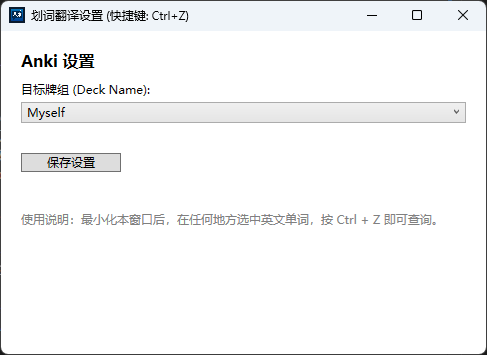
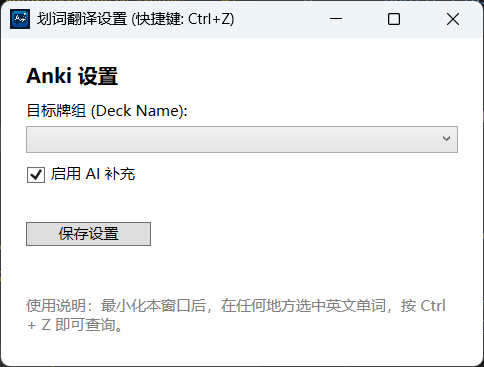
add completely AI function

diff --git a/MainWindow.xaml b/MainWindow.xaml
@@ -17,6 +17,9 @@
             <!-- 改为下拉列表，数据源为运行时获取的牌组 -->
             <ComboBox x:Name="DeckComboBox" Margin="0,5,0,10" />
 
+            <CheckBox x:Name="EnableAICheckBox" Content="启用 AI 补充" Margin="0,0,0,10"/>
+
+
             <Button Content="保存设置" Click="SaveButton_Click" Width="100" HorizontalAlignment="Left" Margin="0,20,0,0"/>
 
             <TextBlock Text="使用说明：最小化本窗口后，在任何地方选中英文单词，按 Ctrl + Z 即可查询。"

diff --git a/MainWindow.xaml.cs b/MainWindow.xaml.cs
@@ -42,6 +42,7 @@ namespace WordPopupApp
             _ankiService = new AnkiService();
             _settingsService = new SettingsService();
             _currentSettings = _settingsService.LoadSettings();
+            EnableAICheckBox.IsChecked = _currentSettings.EnableAISupplement;
             _lcClient = new LangChainClient(); // 本地 127.0.0.1:8040
         }
 
@@ -101,8 +102,12 @@ namespace WordPopupApp
                 Popup.SetPositionAndShow();
 
                 var wordCard = await wordCardTask;
-                var llm = await lcTask;
-
+                YoudaoWordCard? llm = null;
+                
+                if (_currentSettings.EnableAISupplement)
+                {
+                    llm = await _lcClient.GenerateAsync(text, cancellationToken);
+                }
                 if (llm != null) // 仅使用大语言模型的结果填充缺失内容
                 {
                     // 同样补齐缺失块
@@ -144,6 +149,8 @@ namespace WordPopupApp
                 return;
             }
             _currentSettings.AnkiDeckName = DeckComboBox.SelectedItem.ToString() ?? string.Empty;
+            
+            _currentSettings.EnableAISupplement = EnableAICheckBox.IsChecked == true;
 
             _settingsService.SaveSettings(_currentSettings);
             MessageBox.Show("设置已保存！");

diff --git a/ai/server.py b/ai/server.py
@@ -34,7 +34,7 @@ class Query(BaseModel):
 
 LLM = ChatGoogleGenerativeAI(
     model="gemini-2.0-flash",
-    google_api_key= "在这里填入你的API KEY" ,  # os.getenv("GOOGLE_API_KEY"),
+    google_api_key= "AIzaSyB2KNWGXZvJ38ObgJsPu_0NE3oG1D68lAQ" ,  # os.getenv("GOOGLE_API_KEY"),
     temperature=0.4,
 )
 

diff --git a/Models/AppSettings.cs b/Models/AppSettings.cs
@@ -4,5 +4,8 @@ namespace WordPopupApp.Models
     {
         public string AnkiDeckName { get; set; } = "Default";
 
+        // 新增：是否启用 AI 补充
+        public bool EnableAISupplement { get; set; } = true;
+        
     }
 }

diff --git a/README.md b/README.md
@@ -1,106 +1,111 @@
 
 ---
 
-# WordPopupApp - 划词翻译与Anki制卡助手
----
-`WordPopupApp` 是一款为 Windows 用户设计的 C#/.NET 桌面应用。它提供了一个简单高效的划词翻译体验，并能一键将查询的单词及其中英文释义、例句、发音等信息制成卡片，添加到 [Anki](https://apps.ankiweb.net/) 中，极大地提升了阅读和学习效率。
+# WordPopupApp - 划词翻译 Anki 助手
 
-2025-09-10 adding 现在，除了爬虫与公开词典接口外，还支持使用 Google Gemini 进行智能生成（可选，支持两种集成方式：纯 C# 或经由 LangChain）。
+这是一款 Windows 平台的划词翻译工具，旨在帮助用户快速查询单词释义，并一键将其添加到 Anki 中，方便后续复习。它结合了有道词典的网络爬虫和可选的 AI (Gemini) 补充功能，为用户提供丰富、全面的单词卡片信息。
 
-![应用截图](./Assets/截图0.png) 
-![应用截图](./Assets/截图1.png) 
+## 主要功能
 
-当点击 `+Anki` 之后，在Anki生成的卡片如下：
-![应用截图](./Assets/截图2.png) 
-![应用截图](./Assets/截图3.png) 
+*   **全局热键**：在任何地方选中单词，按下 `Ctrl + Z` 即可快速查词。
+*   **内容丰富**：自动从有道词典抓取单词的音标、释义、词组和柯林斯例句。
+*   **AI 增强**：可选的 AI (Gemini) 模式，用于补充或生成更丰富的单词信息，尤其在有道词典信息不全时。
+*   **Anki 集成**：一键将完整的单词卡片（包含释义、例句、发音）添加到指定的 Anki 牌组中。
+*   **自动模板**：首次添加时，会自动在 Anki 中创建优化好的卡片模板和笔记类型 (`WordPopUpNote`)。
+*   **简洁易用**：直观的设置界面和美观的查询结果弹窗。
 
+## 软件截图
 
-## ✨ 主要功能
+**1. 设置主界面**
+程序启动后，可在此配置 Anki 牌组并选择是否启用 AI 补充。
 
-- **全局热键**：在任何应用程序中，选中英文单词或短语，按下 `Ctrl + Z` 即可触发查询。
-- **多源查询**：
-    - **英文释义**：从 [Free Dictionary API](https://dictionaryapi.dev/) 获取详细的英文定义、词性及例句。
-    - **中文翻译**：快速获取单词或短语的中文意思。
-    - **相关词组**：通过 [WordsAPI](https://www.wordsapi.com/) 获取与查询单词相关的常用短语。
-    - **AI生成**：通过 LangChain 框架，将应用与 Gemini 模型连接起来，通过 Google Gemini 进行智能生成，获取更丰富的内容。
-- **音频播放**：点击发音按钮，即可播放单词的真人发音。
-- **一键添加至Anki**：
-    - 将单词、音标、中文释义、英文例句、相关词组和发音一键添加到 Anki。
-    - 自动在 Anki 中创建名为 `WordPopUpNote` 的精美笔记模板，无需手动配置。
-- **高度可配置**：
-    - 启动后可在设置界面选择要添加到的 Anki 牌组。
-    - 所有配置（如牌组名称、API密钥）都保存在本地 `settings.json` 文件中。
+![运行后的界面](Assets/截图0.png)
 
-## ⚙ 先决条件
+**2. 查词弹窗**
+选中单词并按下快捷键后，会弹出此窗口显示查询结果。
 
-在使用本应用前，请确保您的电脑满足以下条件：
+![查询出来的单词界面](Assets/截图1.png)
 
-1.  **操作系统**：Windows。
-2.  **.NET 运行库**：需要安装 [.NET 9 Desktop Runtime](https://dotnet.microsoft.com/en-us/download/dotnet/9.0) 或更高版本。
-3.  **Anki**：已安装 Anki 桌面客户端。
-4.  **AnkiConnect**：在 Anki 中已安装并启用了 [AnkiConnect](https://ankiweb.net/shared/info/2055492159) 插件。**这是与Anki通信的必要组件。**
-5.  **WordsAPI 密钥 (可选)**：为了使用“相关词组”功能，您需要一个 WordsAPI 的密钥。
-    -   前往 [RapidAPI](https://rapidapi.com/hub) 网站。
-    -   搜索并订阅 `WordsAPI` 服务 (通常有免费额度)。
-    -   获取您的 `X-RapidAPI-Key`。
-6. **Google Gemini 密钥 (可选)**：为了使用“AI生成”功能，您需要一个 Google Gemini 的密钥。
-    -   前往 [Google AI Studio](https://ai.google.dev/) 网站。
-    -   搜索并订阅 `Google Gemini` 服务 (通常有免费额度)。
-    -   获取您的 `API_KEY`。
-7. **python 环境**: 确保本地已安装 Python 3.10+
+**3. Anki 卡片效果**
+添加到 Anki 后的卡片样式，排版清晰，支持发音。
 
-## 🚀 安装与设置
+*   **卡片正面：**
+    ![Anki 卡片正面](Assets/截图2.png)
 
-1.  **下载应用**：从本项目的 [Releases](https://github.com/qq13456116532/WordPopupApp/releases) 页面下载最新的压缩包，并解压到任意位置。
-2.  **配置API密钥 (可选)**：
-    -   在解压后的文件夹中，找到 `settings.json` 文件。
-    -   用记事本或任何文本编辑器打开它。
-    -   将您从 RapidAPI 获取的密钥粘贴到 `WordsApiKey` 字段的值中，并保存文件。
-    ```json
-    {
-      "AnkiDeckName": "Myself",
-      "WordsApiKey": "在此处粘贴你从RapidAPI获取的密钥"
-    }
-    ```
-    *如果留空，"相关词组"功能将不可用，但不影响其他核心功能。*
-3.  **运行Anki**：确保 Anki 桌面程序正在运行，并且 AnkiConnect 插件已启用。
+*   **卡片背面：**
+    ![Anki 卡片背面](Assets/截图3.png)
 
-## 📖 使用方法
+## 环境要求
 
-1.  **启动应用**：双击运行 `WordPopupApp.exe`, 并在 /ai/文件夹下使用命令`python -m uvicorn server:app --host 127.0.0.1 --port 8040 --reload`启动langchain服务。
-2.  **配置设置**：
-    -   应用启动后会显示一个设置窗口。
-    -   程序会自动获取您 Anki 中的所有牌组，请在下拉列表中选择一个您希望用于存词的默认牌组。
-    -   点击 “保存设置” 按钮。
-3.  **最小化窗口**：将设置窗口最小化，应用会在后台持续运行。
-4.  **开始使用**：
-    -   在浏览器、PDF阅读器、文档等任何地方，用鼠标选中一个您不认识的英文单词。
-    -   按下快捷键 `Ctrl + Z`。
-    -   一个查询结果弹窗会立刻出现在您的鼠标旁边。
-    -   查看释义，点击 `+ Anki` 按钮即可将该词条添加到您之前设置好的牌组中。
-    -   弹窗会在您点击其他地方后自动消失。
+1.  **操作系统**: Windows 10 或更高版本。
+2.  **运行环境**: .NET Framework 或 .NET Core/5/6+ (根据项目编译目标决定)。
+3.  **Anki**:
+    *   已安装 Anki 桌面版。
+    *   已在 Anki 中安装并启用 [AnkiConnect](https://ankiweb.net/shared/info/2055492159) 插件。
+4.  **AI 功能 (可选)**:
+    *   Python 3.8+ 环境。
+    *   一个有效的 Google AI API Key (用于 Gemini 模型)。
 
-## 🏗 从源码构建
+## 安装与使用
 
-如果您想自行编译或修改代码，请按以下步骤操作：
+### 步骤一：配置 Anki
+1.  启动你的 Anki 桌面程序。
+2.  确保 AnkiConnect 插件已经安装并启用。程序需要通过它来与 Anki 通信。
 
-1.  克隆本仓库：
+### 步骤二：配置 AI 后端 (可选)
+如果您想使用 AI 补充功能，请按照以下步骤启动本地服务器：
+
+1.  **进入 `ai` 目录**:
     ```bash
-    git clone https://github.com/qq13456116532/WordPopupApp.git
+    cd ai
     ```
-2.  使用 Visual Studio 2022+ 或安装了 C# Dev Kit 插件的 VS Code 打开项目。
-3.  还原 NuGet 包依赖。
-4.  直接生成 (Build) 或运行 (Run) 项目即可。
+2.  **安装 Python 依赖**:
+    ```bash
+    pip install -r requirements.txt
+    ```
+3.  **配置 API Key**:
+    *   用代码编辑器打开 `ai/server.py` 文件。
+    *   找到以下代码行：
+        ```python
+        LLM = ChatGoogleGenerativeAI(
+            model="gemini-2.0-flash",
+            google_api_key= "请在这里输入你的AI ApiKey" ,  # os.getenv("GOOGLE_API_KEY"),
+            temperature=0.4,
+        )
+        ```
+    *   将 `"请在这里输入你的AI ApiKey"` 替换为您自己的 Google AI API Key。
+4.  **启动本地服务**:
+    ```bash
+    uvicorn server:app --host 127.0.0.1 --port 8040
+    ```
+    请保持此命令行窗口在后台运行。
 
-## 📦 依赖项
+### 步骤三：运行主程序
 
-### 外部服务
--   [AnkiConnect](https://ankiweb.net/shared/info/2055492159)
--   [Free Dictionary API](https://dictionaryapi.dev/)
--   [WordsAPI on RapidAPI](https://rapidapi.com/dpventures/api/wordsapi)
--   Google Translate (Unofficial API)
+1.  通过 Visual Studio 编译并运行项目，或者直接执行已生成的 `.exe` 文件。
+2.  程序启动后，会显示设置界面 (`MainWindow.xaml`)。
+3.  下拉列表会自动加载你 Anki 中的所有牌组，请选择一个用于存放单词卡片的目标牌组。
+4.  如果你已经启动了 AI 后端服务，可以勾选“启用 AI 补充”。
+5.  点击 **“保存设置”** 按钮。
+6.  最小化设置窗口，程序会驻留在后台，并监听全局热键。
 
-### NuGet 包
--   [CommunityToolkit.Mvvm](https://www.nuget.org/packages/CommunityToolkit.Mvvm/): 用于实现 MVVM 设计模式。
--   [Newtonsoft.Json](https://www.nuget.org/packages/Newtonsoft.Json/): 用于处理 JSON 序列化与反序列化。
--   `Microsoft.WindowsDesktop.App.WindowsForms`: 用于模拟键盘输入和获取鼠标位置。
+### 步骤四：开始使用
+
+1.  在任何应用程序（如浏览器、PDF 阅读器、文档编辑器等）中，用鼠标选中一个英文单词或短语。
+2.  按下快捷键 `Ctrl + Z`。
+3.  鼠标指针旁边会立刻弹出查询结果窗口。
+4.  如果需要将该单词存入 Anki，点击弹窗右下角的 **"+ Anki"** 按钮即可。
+
+## 技术栈
+
+*   **前端**: C#, WPF (.NET)
+*   **核心库**:
+    *   `AngleSharp`: 用于解析 HTML，抓取有道词典网页内容。
+    *   `Newtonsoft.Json`: 用于处理 JSON 数据。
+    *   `CommunityToolkit.Mvvm`: 实现 MVVM 设计模式。
+*   **AI 后端**:
+    *   Python
+    *   `FastAPI`: 构建本地 API 服务。
+    *   `LangChain`, `langchain-google-genai`: 调用和封装大语言模型 (Gemini)。
+*   **通信**:
+    *   `HttpClient`: 用于 C# 程序与网页、本地 AI 服务以及 AnkiConnect 的通信。
